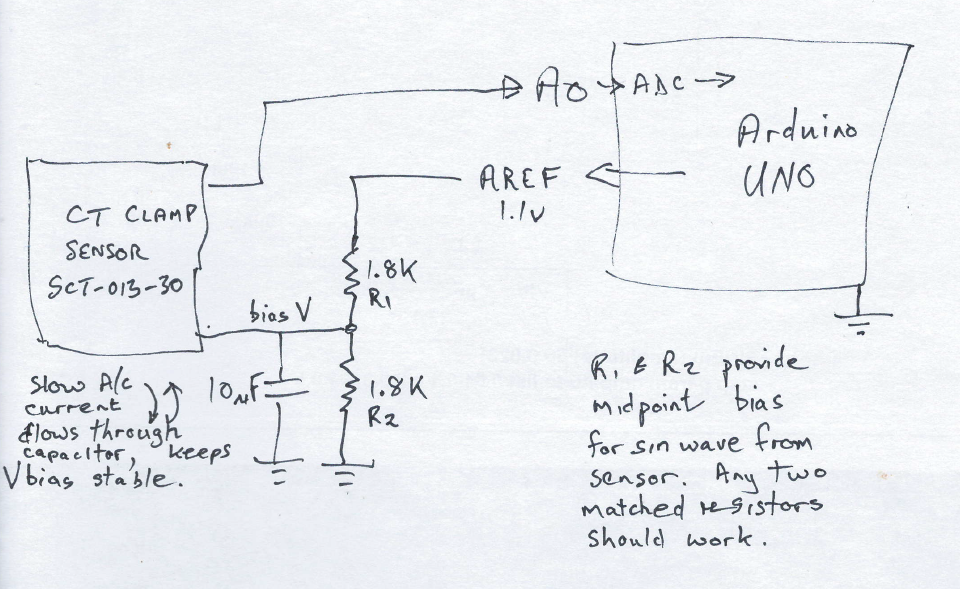
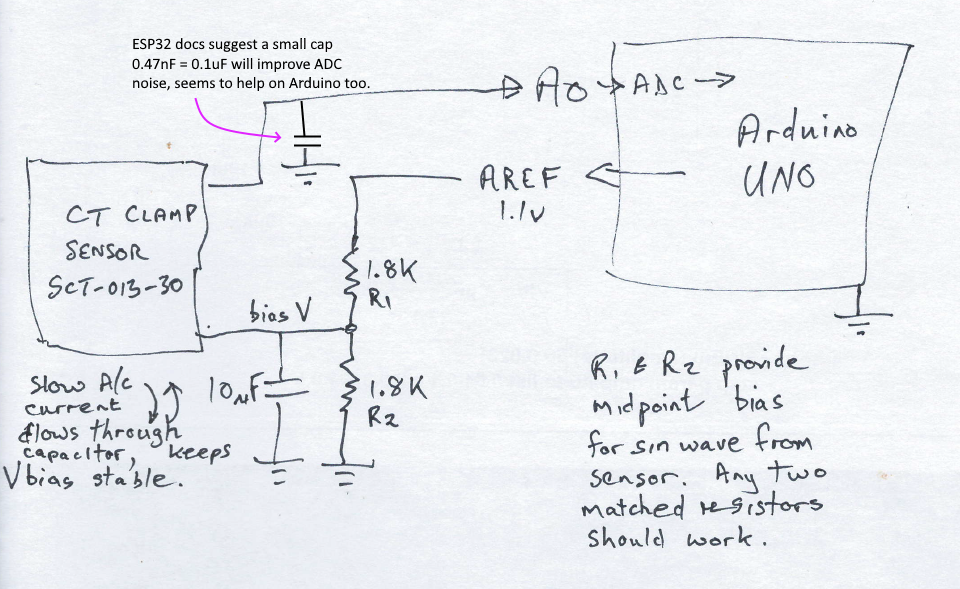
Add capacitor to circuit, fix small bug

Changed region(s): [[0.125, 0.0611, 0.375, 0.1528], [0.2188, 0.2139, 0.3438, 0.3056]]

diff --git a/CT_Clamp/Utils.h b/CT_Clamp/Utils.h
@@ -1,4 +1,4 @@
-
+ 
 #pragma once
 
 
@@ -93,12 +93,12 @@ const int numRefPts = 20;  // each x,y takes two slots in the array
 const double xs[numRefPts] =  {
   // reading -> watts
   -0.001,   2.2,     // dummy first table entry, calculated
-  0.4,   2.3,
-  1.39,   11.7,
+  0.11,   2.2,
+  1.57,   10.5,
   2.88,  28,
   4.71, 54.7,
-  5.43, 62.6,
-  101.22, 1028,
+  6.6, 59,
+  120.41, 1050,
   180,  1750,
   280,  2750,
   2800, 27500    // dummy last table entry, calculated
